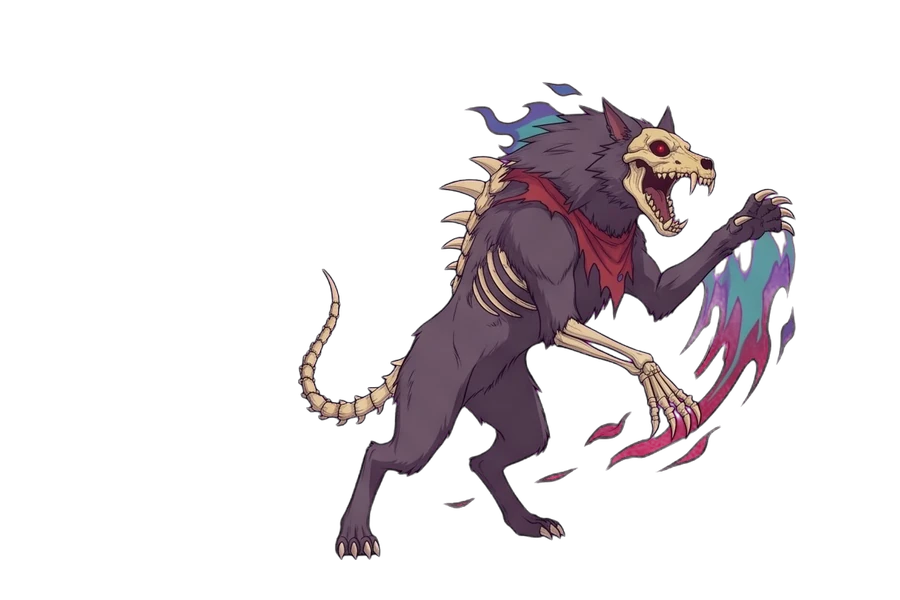
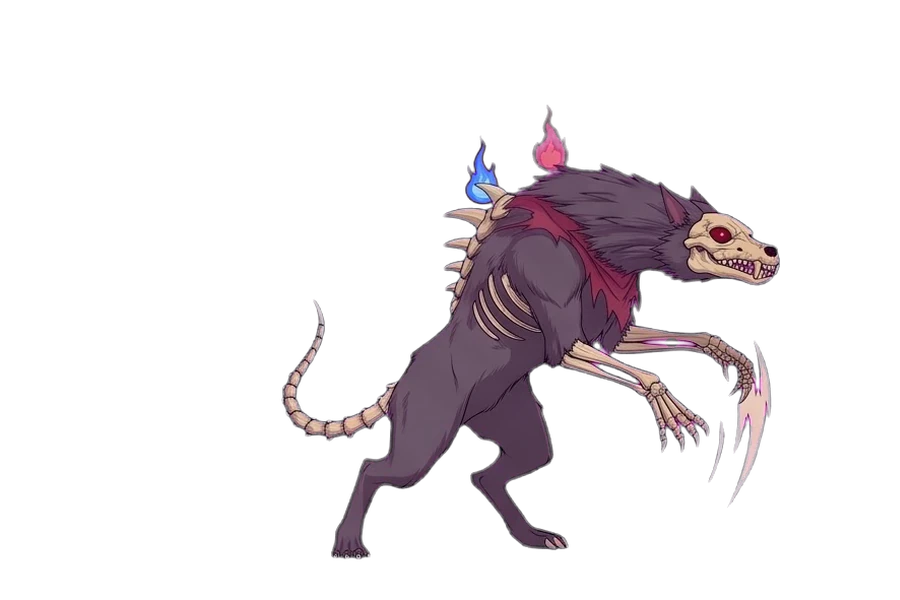
v0.8.32 第5關大狼01~16重生接入，統一骨臉骨尾造型
Claude-Session: https://claude.ai/code/session_019t36GqtZiMFsp46HhEjvLY

Changed region(s): [[0.3111, 0.12, 0.9022, 0.93]]

diff --git a/index.html b/index.html
@@ -2073,7 +2073,7 @@
       "use strict";
 
       /* v0.7.8 圖片快取：assets/ 圖片網址一律加 ?v=版本，更新美術後不會讀到手機瀏覽器的舊快取（每次改圖就遞增 ASSET_VER） */
-      const ASSET_VER = "0.8.31";
+      const ASSET_VER = "0.8.32";
       (function () {
         const d = Object.getOwnPropertyDescriptor(HTMLImageElement.prototype, "src");
         if (!d || !d.set) return;
@@ -2839,11 +2839,11 @@
         M.transform = { name: "九幽狼王・覺醒", isSwitch: true, isTransform: true, armor: true, switchText: { B: "〔九幽狼王・覺醒〕" }, frames: FR("14_cast", "14_cast", "14_cast"), windup: 1.4, active: 0.4, recover: 0.7, range: 0, lunge: 0, damage: 0 };
         /* --- 大狼（慢、重、大範圍；range 含半個身長） --- */
         M.b_swipe = { kick: 0.35, fxAct: { sheet: "wolf", row: 0, ox: 200, oy: -210, w: 640, dur: 0.34 }, name: "巨爪橫掃", frames: { windup: ["07_windup", "22_swipe_rear"], active: ["23_swipe_mid", "09_slash"], recover: ["10_slash_rec"] }, windup: 0.62, active: 0.18, recover: 0.55, range: 330, lunge: 220, damage: 210, parryPostureDmg: 28 };
-        M.b_stomp = { kickHit: 0.3, name: "地面連錘", isCombo: true, comboTotalHits: 3, comboInterval: 0.30, comboDamagePerHit: 110, fxHit: { sheet: "land", row: 0, ox: 260, oy: 22, w: 560, dur: 0.5, anchor: "b", alpha: 0.85 }, frames: { windup: ["24_slam_up"], active: ["25_slam_mid", "20_slam"], recover: ["10_slash_rec"] }, windup: 0.60, active: 1.0, recover: 0.55, range: 320, lunge: 300, damage: 160, parryPostureDmg: 20 };
+        M.b_stomp = { kickHit: 0.3, name: "地面連錘", isCombo: true, comboTotalHits: 3, comboInterval: 0.30, comboDamagePerHit: 110, fxHit: { sheet: "land", row: 0, ox: 260, oy: 22, w: 560, dur: 0.5, anchor: "b", alpha: 0.85 }, frames: { windup: ["24_slam_up"], active: ["25_slam_mid", "24_slam_up", "25_slam_mid"], recover: ["10_slash_rec"] }, windup: 0.60, active: 1.0, recover: 0.55, range: 320, lunge: 300, damage: 160, parryPostureDmg: 20 };
         M.b_leap = { kick: 0.3, name: "【危】巨狼躍壓 (閃開，或起跳踩頭)", isLeap: true, fxLand: true, isPerilous: true, perilType: "leap", leapH: 230, leapMax: 640, frames: { windup: ["08_windup_thrust", "26_leap_crouch"], active: ["27_leap_fly", "28_leap_dive"], recover: ["12_thrust_rec", "10_slash_rec"] }, windup: 0.75, active: 0.60, recover: 0.80, range: 300, lunge: 0, damage: 300, parryPostureDmg: 22 };
         M.b_howl = { kick: 0.25, fxAct: { sheet: "wolf", row: 3, ox: 260, oy: -250, w: 900, dur: 0.7 }, name: "咆哮震波 (霸體・震退)", armor: true, pushback: 900, frames: FR("14_cast", "14_cast", "14_cast"), windup: 0.65, active: 0.15, recover: 0.50, range: 420, lunge: 0, damage: 90, parryPostureDmg: 20 };
         M.b_bone = { name: "白骨刺陣", isZone: true, zoneType: "bone", zoneWidth: 320, zoneDuration: 2.4, zoneDamagePerSec: 150, zoneTargetPlayer: true, frames: FR("14_cast", "14_cast", "14_cast"), windup: 0.55, active: 0.20, recover: 0.50, range: 300, lunge: 0, damage: 120 };
-        M.b_bite = { kick: 0.4, name: "【危】噬魂吞咬 (極限側閃)", isPerilous: true, perilType: "grab", fxAct: { sheet: "wolf", row: 1, ox: 300, oy: -190, w: 560, dur: 0.36 }, frames: { windup: ["29_bite_wind"], active: ["30_bite_snap", "21_bite"], recover: ["12_thrust_rec"] }, windup: 0.70, active: 0.16, recover: 0.75, range: 260, lunge: 0, damage: 350 };
+        M.b_bite = { kick: 0.4, name: "【危】噬魂吞咬 (極限側閃)", isPerilous: true, perilType: "grab", fxAct: { sheet: "wolf", row: 1, ox: 300, oy: -190, w: 560, dur: 0.36 }, frames: { windup: ["29_bite_wind"], active: ["30_bite_snap"], recover: ["12_thrust_rec"] }, windup: 0.70, active: 0.16, recover: 0.75, range: 260, lunge: 0, damage: 350 };
         M.b_tail = { kick: 0.25, fxAct: { sheet: "land", row: 2, ox: 0, oy: -60, w: 1100, dur: 0.5, alpha: 0.7 }, name: "【危】魔尾裂風掃 (起跳踩頭)", isPerilous: true, perilType: "sweep", frames: { windup: ["32_tail_wind"], active: ["33_tail_spin", "13_sweep"], recover: ["10_slash_rec"] }, windup: 0.60, active: 0.24, recover: 0.62, range: 360, lunge: 260, damage: 300 };
         M.b_rush = { kick: 0.25, name: "巨狼衝撞 (跳躍越過)", isCharge: true, armor: true, chargeSpeed: 720, frames: { windup: ["26_leap_crouch"], active: ["31_rush"], recover: ["12_thrust_rec"] }, windup: 0.70, active: 0.70, recover: 0.90, range: 260, lunge: 720, damage: 260, parryPostureDmg: 24 };
         M.b_rage = { kickHit: 0.15, fxHit: { sheet: "wolf", row: 0, ox: 220, oy: -200, w: 700, dur: 0.3 }, name: "血海狼嚎・亂爪 (霸體)", isRage: true, armor: true, isCombo: true, comboTotalHits: 3, comboInterval: 0.26, comboDamagePerHit: 130, frames: { windup: ["14_cast"], active: ["23_swipe_mid", "25_slam_mid", "23_swipe_mid"], recover: ["10_slash_rec"] }, windup: 0.70, active: 0.95, recover: 0.70, range: 340, lunge: 320, damage: 220, parryPostureDmg: 26 };
@@ -2855,7 +2855,7 @@
             pool: [["s_bite", 14], ["s_bite2", 12], ["s_claw3", 11], ["s_bite+backstep", 10, "mobility"], ["s_pounce+backstep", 9, "mobility"], ["dash_in+s_bite", 10, "chase"], ["s_rush", 8], ["s_tail", 8], ["s_shadow+s_bite", 8, "chase"]],
             far: ["dash_in+s_bite", "s_pounce"], farP2: [] },
           B: { sprite: "boss5b", stride: 330, speed: 250, /* 大狼：站立與走路只用外觀一致（無骨腿）的格子，避免 AI 生圖各格骨腿有無不同而閃爍 */
-            extras: ["20_slam", "21_bite", "22_swipe_rear", "23_swipe_mid", "24_slam_up", "25_slam_mid", "26_leap_crouch", "27_leap_fly", "28_leap_dive", "29_bite_wind", "30_bite_snap", "31_rush", "32_tail_wind", "33_tail_spin"], remap: { "01_idle1": "02_idle2" }, walkSeq: ["03_walk1", "04_walk2", "06_walk4", "04_walk2"], spriteScale: 1.05, hurtHalf: 230, bodyW: 520, bodyH: 300, rageMove: "b_rage",
+            extras: ["22_swipe_rear", "23_swipe_mid", "24_slam_up", "25_slam_mid", "26_leap_crouch", "27_leap_fly", "28_leap_dive", "29_bite_wind", "30_bite_snap", "31_rush", "32_tail_wind", "33_tail_spin"], walkSeq: ["03_walk1", "04_walk2", "05_walk3", "06_walk4"], spriteScale: 1.05, hurtHalf: 230, bodyW: 520, bodyH: 300, rageMove: "b_rage",
             pool: [["b_swipe", 16], ["b_stomp", 12], ["b_howl", 9, "push"], ["b_bone", 10], ["b_bite", 9], ["b_tail", 9], ["b_leap", 12, "mobility"], ["b_rush", 8, "chase"]],
             far: ["b_rush", "b_leap"], farP2: [] }
         };

diff --git a/HANDOFF.md b/HANDOFF.md
@@ -1,4 +1,4 @@
-# 《一念飛仙外傳-墨塵傳》交接文件（對應版本 v0.8.31）
+# 《一念飛仙外傳-墨塵傳》交接文件（對應版本 v0.8.32）
 
 > 新對話開始時：上傳這份文件，第一句話寫「請先讀交接文件，照文件的流程繼續」。
 > Claude 要先把倉庫掛進工作階段（add_repo：mashin-84/mochen，push 權限）、clone，再讀 `index.html` 的關鍵段落。
@@ -345,3 +345,9 @@
 - 第 5 關全部招式的 `dfm`（壓扁／拉長／殘影／彈跳）已移除；引擎 `bossDeform` 保留給其他關卡。蛻變脹大（`transformGrow`）仍在。
 - 大狼攻擊關鍵格 `assets/boss5b/22~33` 比走路／站立格小約 25%（keyposes 縮放比 0.68 偏小）→ 以腳底中心為軸整批放大 1.3 倍重存。
 - **未解**：造型衝突——走路／站立／cast 等標準格是「毛皮完整的狼＋魔焰」，攻擊格是「頭骨臉＋骨尾＋骨肢、較瘦」。要真正統一須讓 Gemini 重生大狼 01~16（全頭骨臉＋骨尾，參考 22~33 的設計），再用 `sheetpad.py` 切圖，並拿掉 `remap`／`walkSeq` 的避骨腿限制。
+
+**v0.8.32 大狼 01~16 重生接入（造型統一）**
+- 新表：骨臉、骨尾、骨前肢、紅圍巾、背上藍／紅小魂火，16 格全部一致（`sheet.py … 420`；11_thrust 頭被格子切到，改寬裁切並手動去掉鄰格尾巴碎片）。取代舊 01~16；`remap` 與 `walkSeq` 的避骨腿限制已拿掉（走路用 03~06 全四格）。
+- 保留 22~33 關鍵格（同設計，v0.8.31 已放大 1.3）。舊 `20_slam`／`21_bite`（毛絨長尾版）刪除，`b_stomp`／`b_bite` 改用 24／25／30。
+- **未解**：倒地 `17_kneel／18_fall／19_lie` 仍是毛絨長尾、背刺版，與新設計不一致（死亡演出才看得到），待重生；引擎蛻變魔焰（白藍大火）疊在畫好的小魂火上，視覺略重複，實測後再決定是否拿掉其中一邊。
+- 登場動畫素材已收到：`intro5` 背景（荒原殘陽）、書法名牌「九幽魔狼」；待合成首幀→使用者生影片→接入。
